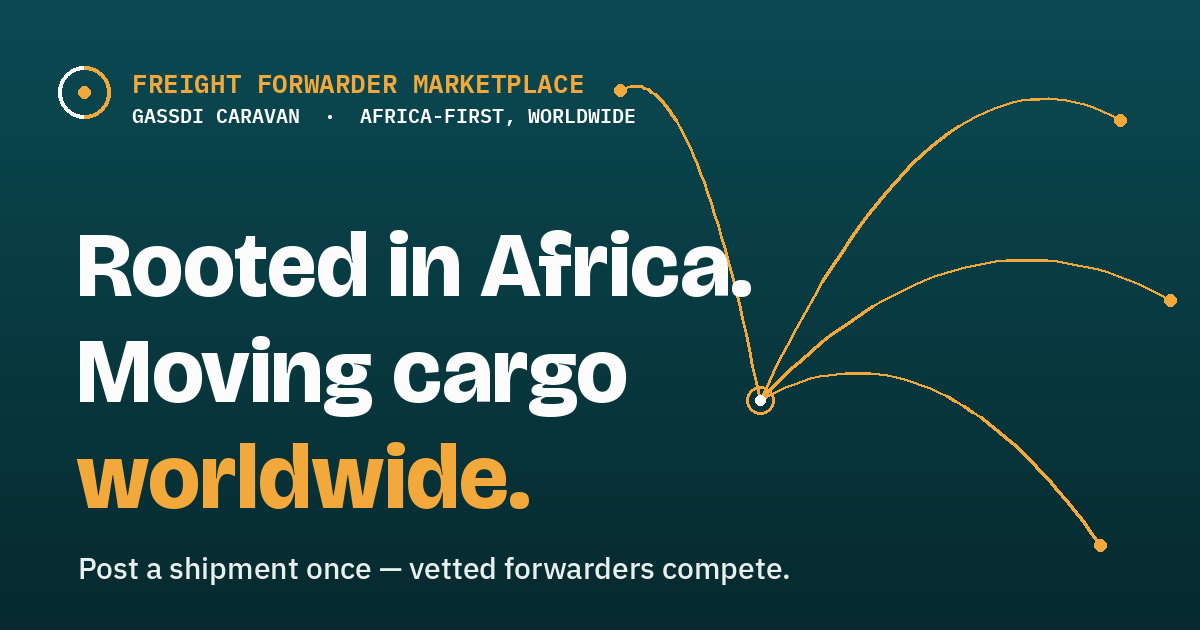
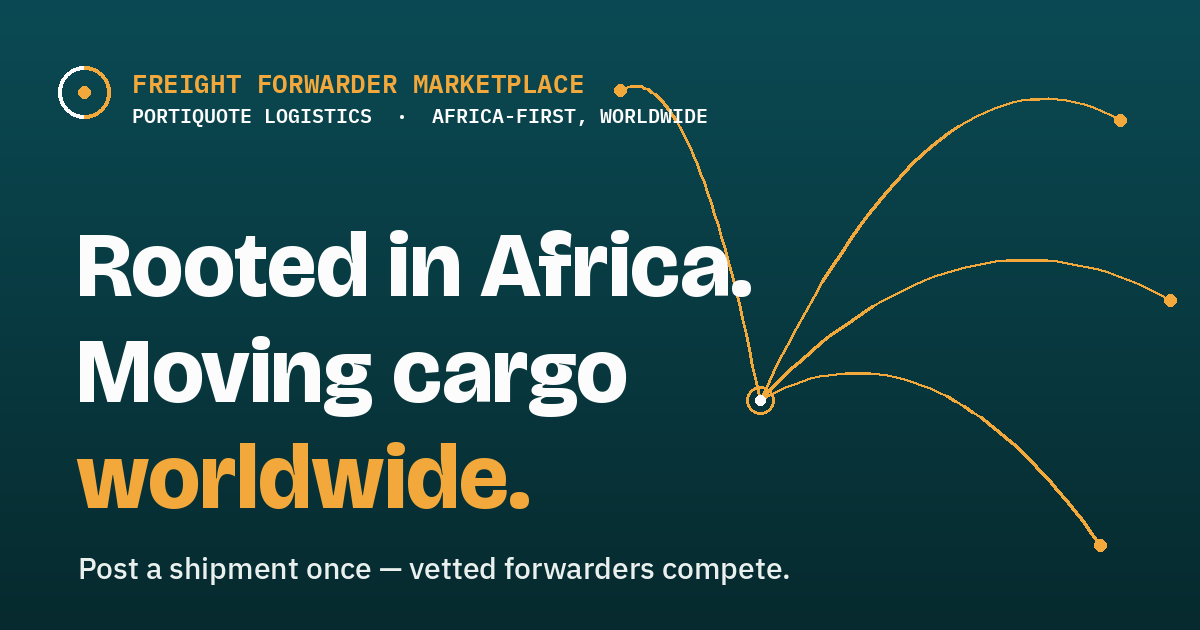
Rename to PortiQuote, wordmark only
The name is now PortiQuote, with PortiQuote Logistics as the registered
entity. "Porti" in ink, "Quote" in saffron — the colour break falls on
the seam of the compound word, so for the first time the split explains
the name instead of just decorating it.

SITE_NAME is the short form and drives every page title; the legal name
lives in a separate SITE_LEGAL_NAME used by the footer, terms and
privacy. Putting "PortiQuote Logistics" in titles would spend 20 of a
roughly 60 character budget on the brand before Google sees a word
about the page.

The route arc was redrawn rather than refitted. The old path assumed a
first word near 3.1em — "Freight" 3.14, "GassDi" 3.08. "Porti" is 2.16.
Scaled to fit, that curve peaked below cap height and cut through the
letters; kept at its old height it overshot the word. The new path uses
a 262x124 viewBox whose curve rises faster, clearing the caps over a
shorter word and landing the arrowhead just before the Q. The reasoning
and the two constraints that govern it are written into the component,
since this geometry has now been derived four times.

generate-email-logo.py no longer splits on a space. PortiQuote is one
word with an internal colour break, so the two halves are passed as
separate arguments. The logo is 483x107 against the previous 638x90 —
proportionally taller, because "Quote" carries a descender that
"Caravan" did not — so the img in lib/email.ts moves to 120x26.
[…]

Changed region(s): [[0.0925, 0.1508, 0.5858, 0.2111]]

diff --git a/components/Wordmark.tsx b/components/Wordmark.tsx
@@ -1,33 +1,35 @@
-// The GassDi Caravan logo: the name in two colours, with a route arcing over it.
+// The PortiQuote logo: the name in two colours, with a route arcing over it.
 //
-// "GassDi" in ink, "Caravan" in saffron — the journey the product is named for
-// is carried by the colour break itself. The saffron arc lifts off left of the
-// G, sweeps over "GassDi", and its arrowhead lands where "Caravan" begins.
-// Route and destination are the same colour on purpose: the journey delivers
-// you to the caravan.
+// "Porti" in ink, "Quote" in saffron. The colour break falls exactly on the
+// seam of the compound word, so the split explains the name rather than just
+// decorating it. The saffron arc lifts off left of the P, sweeps over "Porti",
+// and its arrowhead lands just before the Q. Route and destination share a
+// colour on purpose: the journey ends at the quote.
 //
 // The arc is an absolutely positioned SVG sitting OVER real HTML text, rather
 // than SVG <text>. The name stays selectable, searchable and rendered in the
 // site's own font at whatever weight the browser has actually loaded.
 //
-// Every offset below is in em, so the whole lockup scales from one font-size.
-// They are measured, not guessed: "GassDi" advances 3.08em in Bricolage at
-// weight 700, so "Caravan" begins around 3.33em and the arrowhead — which sits
-// at 99.2% of the SVG width — is placed just before it.
+// The arc path was REDRAWN for this name, not merely refitted. The previous
+// path lived in a 394x124 viewBox tuned to a ~3.1em first word ("Freight" is
+// 3.14em, "GassDi" 3.08em). "Porti" is 2.16em. Scaled down to fit, that curve
+// peaked below cap height and sliced straight through the letters; kept at its
+// old height, it overshot the word entirely. The current path is a 262x124 box
+// whose curve rises faster, so it clears the caps over a shorter word.
 //
-// Two traps if you ever re-derive these. The viewBox is 394x124, so width and
-// height must keep that 3.177 ratio or the arc skews. And the bottom edge has
-// to stay at 0.89em below the top of the line box, where the arc's tail meets
-// the baseline; scaling both dimensions proportionally floats the tail up into
-// the x-height. Set height from the ratio, then set top to 0.89 minus height.
+// Two traps if you ever re-derive these. Width and height must keep the
+// viewBox's 2.113 ratio or the arc skews. And the bottom edge has to stay at
+// 0.89em below the top of the line box, where the tail meets the baseline;
+// scaling both dimensions proportionally floats the tail up into the x-height.
+// Set height from the ratio, then set top to 0.89 minus height.
 //
 // leading-none is required — it fixes the line box at 1em so the baseline sits
 // predictably and the arc cannot drift.
 const ROUTE = {
   left: "-0.31em",
-  top: "-0.41em",
-  width: "4.14em",
-  height: "1.30em",
+  top: "-0.28em",
+  width: "2.48em",
+  height: "1.17em",
 };
 
 export default function Wordmark({
@@ -36,12 +38,12 @@ export default function Wordmark({
   withRoute = false,
 }: {
   className?: string;
-  /** On dark grounds "GassDi" flips to paper; ink would be invisible. */
+  /** On dark grounds "Porti" flips to paper; ink would be invisible. */
   onDark?: boolean;
   /**
    * Draw the route arc. Off by default because the offsets above are tuned to
    * the mixed-case wordmark; uppercase or heavily tracked settings change the
-   * proportions and the arc would no longer land on "Caravan".
+   * proportions and the arc would no longer land on the Q.
    */
   withRoute?: boolean;
 }) {
@@ -49,23 +51,23 @@ export default function Wordmark({
     <span className={`relative inline-block leading-none ${className}`}>
       {withRoute && (
         <svg
-          viewBox="0 0 394 124"
+          viewBox="0 0 262 124"
           fill="none"
           aria-hidden="true"
           className="pointer-events-none absolute"
           style={ROUTE}
         >
           <path
-            d="M 7 119 C 59 29, 249 7, 367 25"
+            d="M 7 119 C 34 34, 150 6, 235 24"
             stroke="#F2A83B"
             strokeWidth="9"
             strokeLinecap="round"
           />
-          <path d="M 359 9 L 391 25 L 359 41 Z" fill="#F2A83B" />
+          <path d="M 227 8 L 258 24 L 227 40 Z" fill="#F2A83B" />
         </svg>
       )}
-      <span className={onDark ? "text-paper" : "text-ink"}>GassDi</span>
-      <span className="text-saffron">&nbsp;Caravan</span>
+      <span className={onDark ? "text-paper" : "text-ink"}>Porti</span>
+      <span className="text-saffron">Quote</span>
     </span>
   );
 }

diff --git a/lib/email.ts b/lib/email.ts
@@ -2,7 +2,7 @@
 //
 // The header logo is a PNG, not the SVG the site uses: Gmail and Outlook strip
 // SVG entirely, so the header would come through blank. It is transparent so it
-// sits on the sea band, drawn at 4x for retina, and carries alt="GassDi Caravan"
+// sits on the sea band, drawn at 4x for retina, and carries alt="PortiQuote"
 // so the brand still reads in clients that block images by default.
 //
 // Gracefully no-ops when RESEND_API_KEY is unset so the
@@ -11,7 +11,7 @@
 const SITE =
   process.env.NEXT_PUBLIC_SITE_URL?.replace(/\/$/, "") ?? "http://localhost:3000";
 const FROM =
-  process.env.EMAIL_FROM ?? "GassDi Caravan <onboarding@resend.dev>";
+  process.env.EMAIL_FROM ?? "PortiQuote <onboarding@resend.dev>";
 
 export type Mail = { to: string; subject: string; html: string };
 
@@ -50,7 +50,7 @@ export function emailShell(opts: {
   return `<!doctype html><html><body style="margin:0;background:#E9F0EE;font-family:Arial,Helvetica,sans-serif;">
   <div style="max-width:560px;margin:0 auto;padding:28px 16px;">
     <div style="background:#0B4A54;border-radius:14px 14px 0 0;padding:22px 26px;">
-      <img src="${SITE}/email-logo.png" width="172" height="22" alt="GassDi Caravan"
+      <img src="${SITE}/email-logo.png" width="120" height="26" alt="PortiQuote"
            style="display:block;border:0;outline:none;text-decoration:none;" />
       <h1 style="color:#FBFCFB;font-size:21px;margin:8px 0 0;">${opts.heading}</h1>
     </div>

diff --git a/lib/site.ts b/lib/site.ts
@@ -1,6 +1,12 @@
 // Central site identity. All SEO metadata follows from here.
 export const SITE_NAME =
-  process.env.NEXT_PUBLIC_SITE_NAME ?? "GassDi Caravan";
+  process.env.NEXT_PUBLIC_SITE_NAME ?? "PortiQuote";
+
+// The registered entity, for the footer, terms and privacy. Kept separate
+// from SITE_NAME because "PortiQuote Logistics" in every page title spends
+// 20 characters of a ~60 character budget on the brand before Google has
+// seen a single word about the page.
+export const SITE_LEGAL_NAME = "PortiQuote Logistics";
 
 export const SITE_URL = (
   process.env.NEXT_PUBLIC_SITE_URL ?? "http://localhost:3000"

diff --git a/app/guides/import-car-japan-kenya/page.tsx b/app/guides/import-car-japan-kenya/page.tsx
@@ -243,7 +243,7 @@ export default function ImportCarJapanKenyaPage() {
               "@type": "Article",
               headline: "Importing a car from Japan to Mombasa",
               description: "Kenya's 8-year rule, the full KRA duty stack on CRSP value, KEBS inspection, RoRo versus container, and clearing at Mombasa.",
-              publisher: { "@type": "Organization", name: "GassDi Caravan" },
+              publisher: { "@type": "Organization", name: "PortiQuote" },
               mainEntityOfPage: `${SITE_URL}/guides/import-car-japan-kenya`,
             }}
           />

diff --git a/components/Footer.tsx b/components/Footer.tsx
@@ -1,5 +1,6 @@
 import Link from "next/link";
 import Wordmark from "@/components/Wordmark";
+import { SITE_LEGAL_NAME } from "@/lib/site";
 
 const COLS = [
   {
@@ -64,7 +65,7 @@ export default function Footer() {
       </div>
       <div className="border-t border-ink/5">
         <p className="mx-auto max-w-6xl px-5 py-4 font-mono text-[11px] text-ink/40">
-          © {new Date().getFullYear()} GassDi Caravan · Freight forwarder marketplace
+          © {new Date().getFullYear()} {SITE_LEGAL_NAME} · Freight forwarder marketplace
         </p>
       </div>
     </footer>

diff --git a/app/guides/china-to-kenya-shipping/page.tsx b/app/guides/china-to-kenya-shipping/page.tsx
@@ -195,7 +195,7 @@ export default function ChinaToKenyaPage() {
               "@type": "Article",
               headline: "Shipping from China to Kenya",
               description: "Origin ports, realistic transit times, FCL versus LCL versus air, the documents customs wants, and where importers lose money.",
-              publisher: { "@type": "Organization", name: "GassDi Caravan" },
+              publisher: { "@type": "Organization", name: "PortiQuote" },
               mainEntityOfPage: `${SITE_URL}/guides/china-to-kenya-shipping`,
             }}
           />

diff --git a/app/about/page.tsx b/app/about/page.tsx
@@ -14,7 +14,7 @@ export default function AboutPage() {
 
           <div className="mt-6 space-y-4 text-[15px] leading-relaxed text-ink/75">
             <p>
-              GassDi Caravan is a freight forwarder marketplace built in Nairobi. Shippers post a
+              PortiQuote is a freight forwarder marketplace built in Nairobi. Shippers post a
               consignment once; vetted forwarders across Africa compete for it with priced quotes —
               ocean, air, road, and RoRo, on lanes reaching Europe, Asia, the Gulf, and the Americas.
             </p>

diff --git a/app/terms/page.tsx b/app/terms/page.tsx
@@ -24,7 +24,7 @@ export default function TermsPage() {
 
           <H>1. Who we are and what this platform is</H>
           <p>
-            GassDi Caravan (&quot;the platform&quot;, &quot;we&quot;) operates a
+            PortiQuote (&quot;the platform&quot;, &quot;we&quot;) operates a
             marketplace that connects shippers with freight forwarders. We are a venue:
             we host listings, requests for quotation (RFQs), quotes, reviews, and
             messages. We are not a freight forwarder, carrier, customs broker, or party

diff --git a/app/guides/fcl-vs-lcl/page.tsx b/app/guides/fcl-vs-lcl/page.tsx
@@ -163,7 +163,7 @@ export default function FclVsLclPage() {
               "@type": "Article",
               headline: "FCL vs LCL: which should you ship?",
               description: "The volume break-even, the destination charges LCL quotes leave out, and a simple rule for deciding.",
-              publisher: { "@type": "Organization", name: "GassDi Caravan" },
+              publisher: { "@type": "Organization", name: "PortiQuote" },
               mainEntityOfPage: `${SITE_URL}/guides/fcl-vs-lcl`,
             }}
           />

diff --git a/lib/stripe.ts b/lib/stripe.ts
@@ -27,7 +27,7 @@ export async function createCheckoutSession(opts: {
     "line_items[0][price_data][currency]": "usd",
     "line_items[0][price_data][unit_amount]": String(opts.amountUsdCents),
     "line_items[0][price_data][product_data][name]":
-      "GassDi Caravan — Premium membership (30 days)",
+      "PortiQuote — Premium membership (30 days)",
   };
   if (opts.customerEmail) fields["customer_email"] = opts.customerEmail;
   for (const [k, v] of Object.entries(opts.metadata)) {

diff --git a/app/llms.txt/route.ts b/app/llms.txt/route.ts
@@ -6,7 +6,7 @@ export const dynamic = "force-static";
 // answer engines, following the emerging llmstxt.org convention. Keeps our
 // most citable pages and their subject matter explicit.
 export function GET() {
-  const body = `# GassDi Caravan
+  const body = `# PortiQuote
 
 > A freight forwarder marketplace for Africa. Cargo owners post a shipment once
 > and receive competing quotes from vetted forwarders. Covers ocean (FCL and

diff --git a/scripts/generate-email-logo.py b/scripts/generate-email-logo.py
@@ -5,18 +5,22 @@ Email clients strip webfonts, so the header logo has to be a picture. This
 draws it at 4x the display size for retina, on transparency, so it sits on the
 sea band (#0B4A54) without a seam.
 
-"GassDi" in paper, "Caravan" in saffron — on the dark band ink would vanish,
+"Porti" in paper, "Quote" in saffron — on the dark band ink would vanish,
 which is the same flip the Wordmark component makes with onDark.
 
-Re-run after a name change:  python3 scripts/generate-email-logo.py "New Name"
+Re-run after a name change:  python3 scripts/generate-email-logo.py Porti Quote
 Then update the width/height on the <img> in lib/email.ts to the printed
 display size, or the logo will stretch.
 """
 import os, sys, urllib.request
 from PIL import Image, ImageDraw, ImageFont
 
-NAME = sys.argv[1] if len(sys.argv) > 1 else "GassDi Caravan"
-first, _, second = NAME.partition(" ")
+# The split is explicit, not derived from a space: "PortiQuote" is one word
+# whose colour break falls mid-string. Passing two arguments keeps this working
+# for compound names as well as spaced ones.
+first  = sys.argv[1] if len(sys.argv) > 1 else "Porti"
+second = sys.argv[2] if len(sys.argv) > 2 else "Quote"
+NAME = first + second
 
 SAFF, PAPER = (242, 168, 59), (251, 252, 251)
 SIZE = 96          # 4x the ~24px the wordmark reads at in the header
@@ -41,7 +45,7 @@ except Exception:
 
 probe = ImageDraw.Draw(Image.new("RGBA", (10, 10)))
 w1 = probe.textlength(first, font=font)
-w2 = probe.textlength(" " + second, font=font)
+w2 = probe.textlength(second, font=font)
 box = probe.textbbox((0, 0), NAME, font=font)
 
 W = int(w1 + w2) + PAD * 2
@@ -50,7 +54,7 @@ img = Image.new("RGBA", (W, H), (0, 0, 0, 0))
 d = ImageDraw.Draw(img)
 y = PAD - box[1]
 d.text((PAD, y), first, font=font, fill=PAPER)
-d.text((PAD + w1, y), " " + second, font=font, fill=SAFF)
+d.text((PAD + w1, y), second, font=font, fill=SAFF)
 
 out = os.path.join(here, "..", "public", "email-logo.png")
 img.save(out, "PNG", optimize=True)
